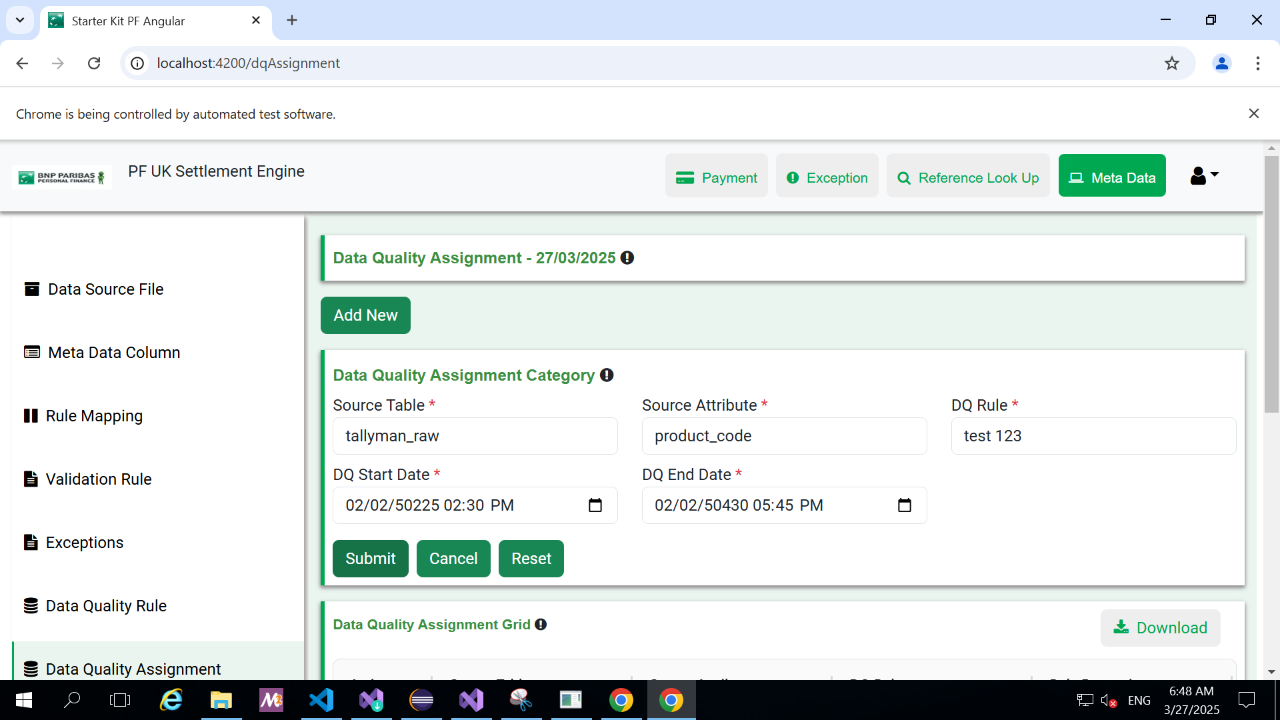
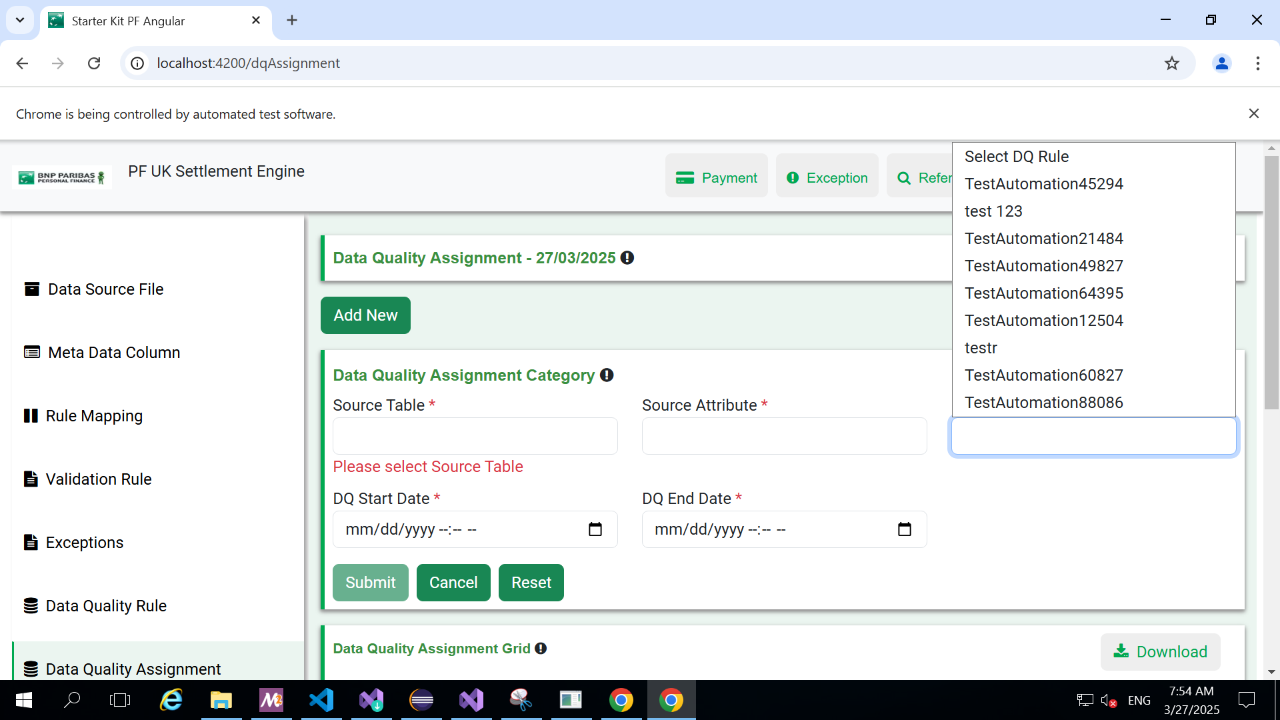
updated the 2nd scenario code

diff --git a/Settlement_Engine_BDD/TestReport/Test-Automaton-Report.html b/Settlement_Engine_BDD/TestReport/Test-Automaton-Report.html
@@ -35,7 +35,7 @@
 <a href="#"><span class="badge badge-primary">Test-Automaton-Report.html</span></a>
 </li>
 <li class="m-r-10">
-<a href="#"><span class="badge badge-primary">Mar 27, 2025 06:48:30 AM</span></a>
+<a href="#"><span class="badge badge-primary">Mar 27, 2025 07:53:53 AM</span></a>
 </li>
 </ul>
 </div>
@@ -66,7 +66,7 @@
 <li class="dropdown">
 <a href="#" class="dropdown-toggle" data-toggle="dropdown"><i class="fa fa-exclamation-circle"></i></a>
 <ul id="status-toggle" class="dropdown-menu dropdown-md p-v-0">
-<a class="dropdown-item" status="fail" href="#"><span>Fail</span><span class="status danger"></span></a>
+<a class="dropdown-item" status="pass" href="#"><span>Pass</span><span class="status success"></span></a>
 <div class="dropdown-divider"></div>
 <a status="clear" class="dropdown-item" href="#"><span>Clear</span><span class="pull-right"><i class="fa fa-close"></i></span></a>
 </ul>
@@ -74,25 +74,25 @@
 </ul>
 </div>    <div class="test-list-wrapper scrollable">
       <ul class="test-list-item">
-        <li class="test-item"  status="fail" test-id="1"
+        <li class="test-item"  status="pass" test-id="1"
           author=""
           tag=""
           device="">
           <div class="test-detail">
-            <p class="name">Verify Meta Data form submission with valid data for the DQ Assignment</p>
+            <p class="name">Verify validation errors when mandatory fields are missing for the DQ Assignment</p>
             <p class="text-sm">
-              <span>6:48:31 AM</span> / <span>00:00:24:368</span>
-              <span class="badge fail-bg log float-right">Fail</span>
+              <span>7:53:53 AM</span> / <span>00:00:16:228</span>
+              <span class="badge pass-bg log float-right">Pass</span>
             </p>
           </div>
           <div class="test-contents d-none">
 <div class="detail-head">
 <div class="p-v-10">
 <div class="info">
-<h5 class="test-status text-fail">Verify Meta Data form submission with valid data for the DQ Assignment</h5>
-<span class='badge badge-success'>03.27.2025 6:48:31 AM</span>
-<span class='badge badge-danger'>03.27.2025 6:48:55 AM</span>
-<span class='badge badge-default'>00:00:24:368</span>
+<h5 class="test-status text-pass">Verify validation errors when mandatory fields are missing for the DQ Assignment</h5>
+<span class='badge badge-success'>03.27.2025 7:53:53 AM</span>
+<span class='badge badge-danger'>03.27.2025 7:54:09 AM</span>
+<span class='badge badge-default'>00:00:16:228</span>
 &middot; <span class='uri-anchor badge badge-default'>#test-id=1</span>
 <span class='badge badge-default pointer float-right ml-1 et'><i class="fa fa-chevron-down"></i></span>
 <span class='badge badge-default pointer float-right ct'><i class="fa fa-chevron-up"></i></span>
@@ -104,16 +104,16 @@
   <tbody>
       <tr class="event-row">
         <td><span class="badge log info-bg">Info</span></td>
-        <td>6:48:31 AM</td>
+        <td>7:53:53 AM</td>
         <td>
-          Scenario Started : Verify Meta Data form submission with valid data for the DQ Assignment
+          Scenario Started : Verify validation errors when mandatory fields are missing for the DQ Assignment
         </td>
       </tr>
       <tr class="event-row">
-        <td><span class="badge log fail-bg">Fail</span></td>
-        <td>6:48:55 AM</td>
+        <td><span class="badge log pass-bg">Pass</span></td>
+        <td>7:54:09 AM</td>
         <td>
-          Verify Meta Data form submission with valid data for the DQ Assignment is failed
+          Verify validation errors when mandatory fields are missing for the DQ Assignment is passed
         </td>
       </tr>
   </tbody>
@@ -135,25 +135,25 @@
 <div class="col-md-3">
 <div class="card"><div class="card-body">
 <p class="m-b-0">Started</p>
-<h3>Mar 27, 2025 06:48:30 AM</h3>
+<h3>Mar 27, 2025 07:53:53 AM</h3>
 </div></div>
 </div>
 <div class="col-md-3">
 <div class="card"><div class="card-body">
 <p class="m-b-0">Ended</p>
-<h3>Mar 27, 2025 06:48:55 AM</h3>
+<h3>Mar 27, 2025 07:54:09 AM</h3>
 </div></div>
 </div>
 <div class="col-md-3">
 <div class="card"><div class="card-body">
 <p class="m-b-0 text-pass">Tests Passed</p>
-<h3>0</h3>
+<h3>1</h3>
 </div></div>
 </div>
 <div class="col-md-3">
 <div class="card"><div class="card-body">
 <p class="m-b-0 text-fail">Tests Failed</p>
-<h3>1</h3>
+<h3>0</h3>
 </div></div>
 </div>
 </div>
@@ -169,12 +169,12 @@
 </div>
 </div>
 <div class="card-footer">
-<div><small data-tooltip='0%'>
-<b>0</b> tests passed
+<div><small data-tooltip='100%'>
+<b>1</b> tests passed
 </small>
 </div>
 <div>
-<small data-tooltip='100%'><b>1</b> tests failed,
+<small data-tooltip='0%'><b>0</b> tests failed,
 <b>0</b> skipped, <b data-tooltip='0%'>0</b> others
 </small>
 </div>
@@ -192,9 +192,9 @@
 </div>
 </div>
 <div class="card-footer">
-<div><small data-tooltip='0%'><b>0</b> events passed</small></div>
+<div><small data-tooltip='50%'><b>1</b> events passed</small></div>
 <div>
-<small data-tooltip='50%'><b>1</b> events failed,
+<small data-tooltip='0%'><b>0</b> events failed,
 <b data-tooltip='%'>1</b> others
 </small>
 </div>
@@ -211,7 +211,7 @@
 </div></div>
 <script>
 var timeline = {
-"Verify Meta Data form submission with valid data for the DQ Assignment":24.368
+"Verify validation errors when mandatory fields are missing for the DQ Assignment":16.228
 };
 </script>
 <div class="row">
@@ -220,8 +220,8 @@ var timeline = {
 <script>
 var statusGroup = {
 parentCount: 5,
-passParent: 0,
-failParent: 1,
+passParent: 1,
+failParent: 0,
 warningParent: 0,
 skipParent: 0,
 childCount: 5,
@@ -237,8 +237,8 @@ warningGrandChild: 0,
 skipGrandChild: 0,
 infoGrandChild: 0,
 eventsCount: 5,
-passEvents: 0,
-failEvents: 1,
+passEvents: 1,
+failEvents: 0,
 warningEvents: 0,
 skipEvents: 0,
 infoEvents: 1

diff --git a/Settlement_Engine_BDD/src/test/java/StepDefinitions/DataQualityAssignmentSteps.java b/Settlement_Engine_BDD/src/test/java/StepDefinitions/DataQualityAssignmentSteps.java
@@ -86,7 +86,7 @@ public class DataQualityAssignmentSteps {
         Thread.sleep(2000);
         WebElement dateTimeInput1 = driver.findElement(By.xpath("//input[@formcontrolname='ruleEndTimeStamp']"));
         dateTimeInput1.sendKeys("2025-04-30T17:45");  
-        Thread.sleep(2000);
+        Thread.sleep(3000);
         System.out.println("user is able to enter the data in the required fields");
 	}
 
@@ -94,29 +94,33 @@ public class DataQualityAssignmentSteps {
 	public void the_user_should_see_click_on_the_submit_button_for_the_dq_assignment() throws InterruptedException {
 		driver.findElement(By.xpath("//button[contains(text(),'Submit')]")).click();
 		System.out.println("The user is able to click on the Submit Button");
-		Thread.sleep(2000);
+		Thread.sleep(3000);
 		commonUtilities.screenshot();
 	}
 
 	@Then("the user should see {string} in the file list for the DQ Assignment")
 	public void the_user_should_see_in_the_file_list_for_the_dq_assignment(String string) throws InterruptedException {
-		String actual = driver.findElement(By.xpath("//*[text()=' Record has been added successFully ']")).getText();
-		Assert.assertEquals("Record has been added successFully", actual);
+		String actual = driver.findElement(By.xpath("//*[text()=' Record has been added successFully..! ']")).getText();
+		Assert.assertEquals("Record has been added successFully..!", actual);
 		System.out.println("The user is able to insert the data in the all fields");
 		Thread.sleep(2000);
 		commonUtilities.screenshot();
 	}
 
 	@When("the user click on any field for the DQ Assignment")
-	public void the_user_click_on_any_field_for_the_dq_assignment() {
-	    // Write code here that turns the phrase above into concrete actions
-	    throw new io.cucumber.java.PendingException();
+	public void the_user_click_on_any_field_for_the_dq_assignment() throws InterruptedException {
+		driver.findElement(By.xpath("//select[@formcontrolname='source1']")).click();
+		WebElement button = driver.findElement(By.xpath("//select[@formcontrolname='ruleId']"));
+		wait.until(ExpectedConditions.visibilityOf(button)).click();
+		Thread.sleep(2000);
 	}
 
 	@Then("the user should see validation errors for required fields for the DQ Assignment")
 	public void the_user_should_see_validation_errors_for_required_fields_for_the_dq_assignment() {
-	    // Write code here that turns the phrase above into concrete actions
-	    throw new io.cucumber.java.PendingException();
+		String actual = driver.findElement(By.xpath("//*[text()=' Please select Source Table ']")).getText();
+		Assert.assertEquals("Please select Source Table", actual);
+		System.out.println("The user is able to see the error message for required fields");
+		commonUtilities.screenshot();
 	}
 
 	@When("the user click on Reset button for the DQ Assignment")
